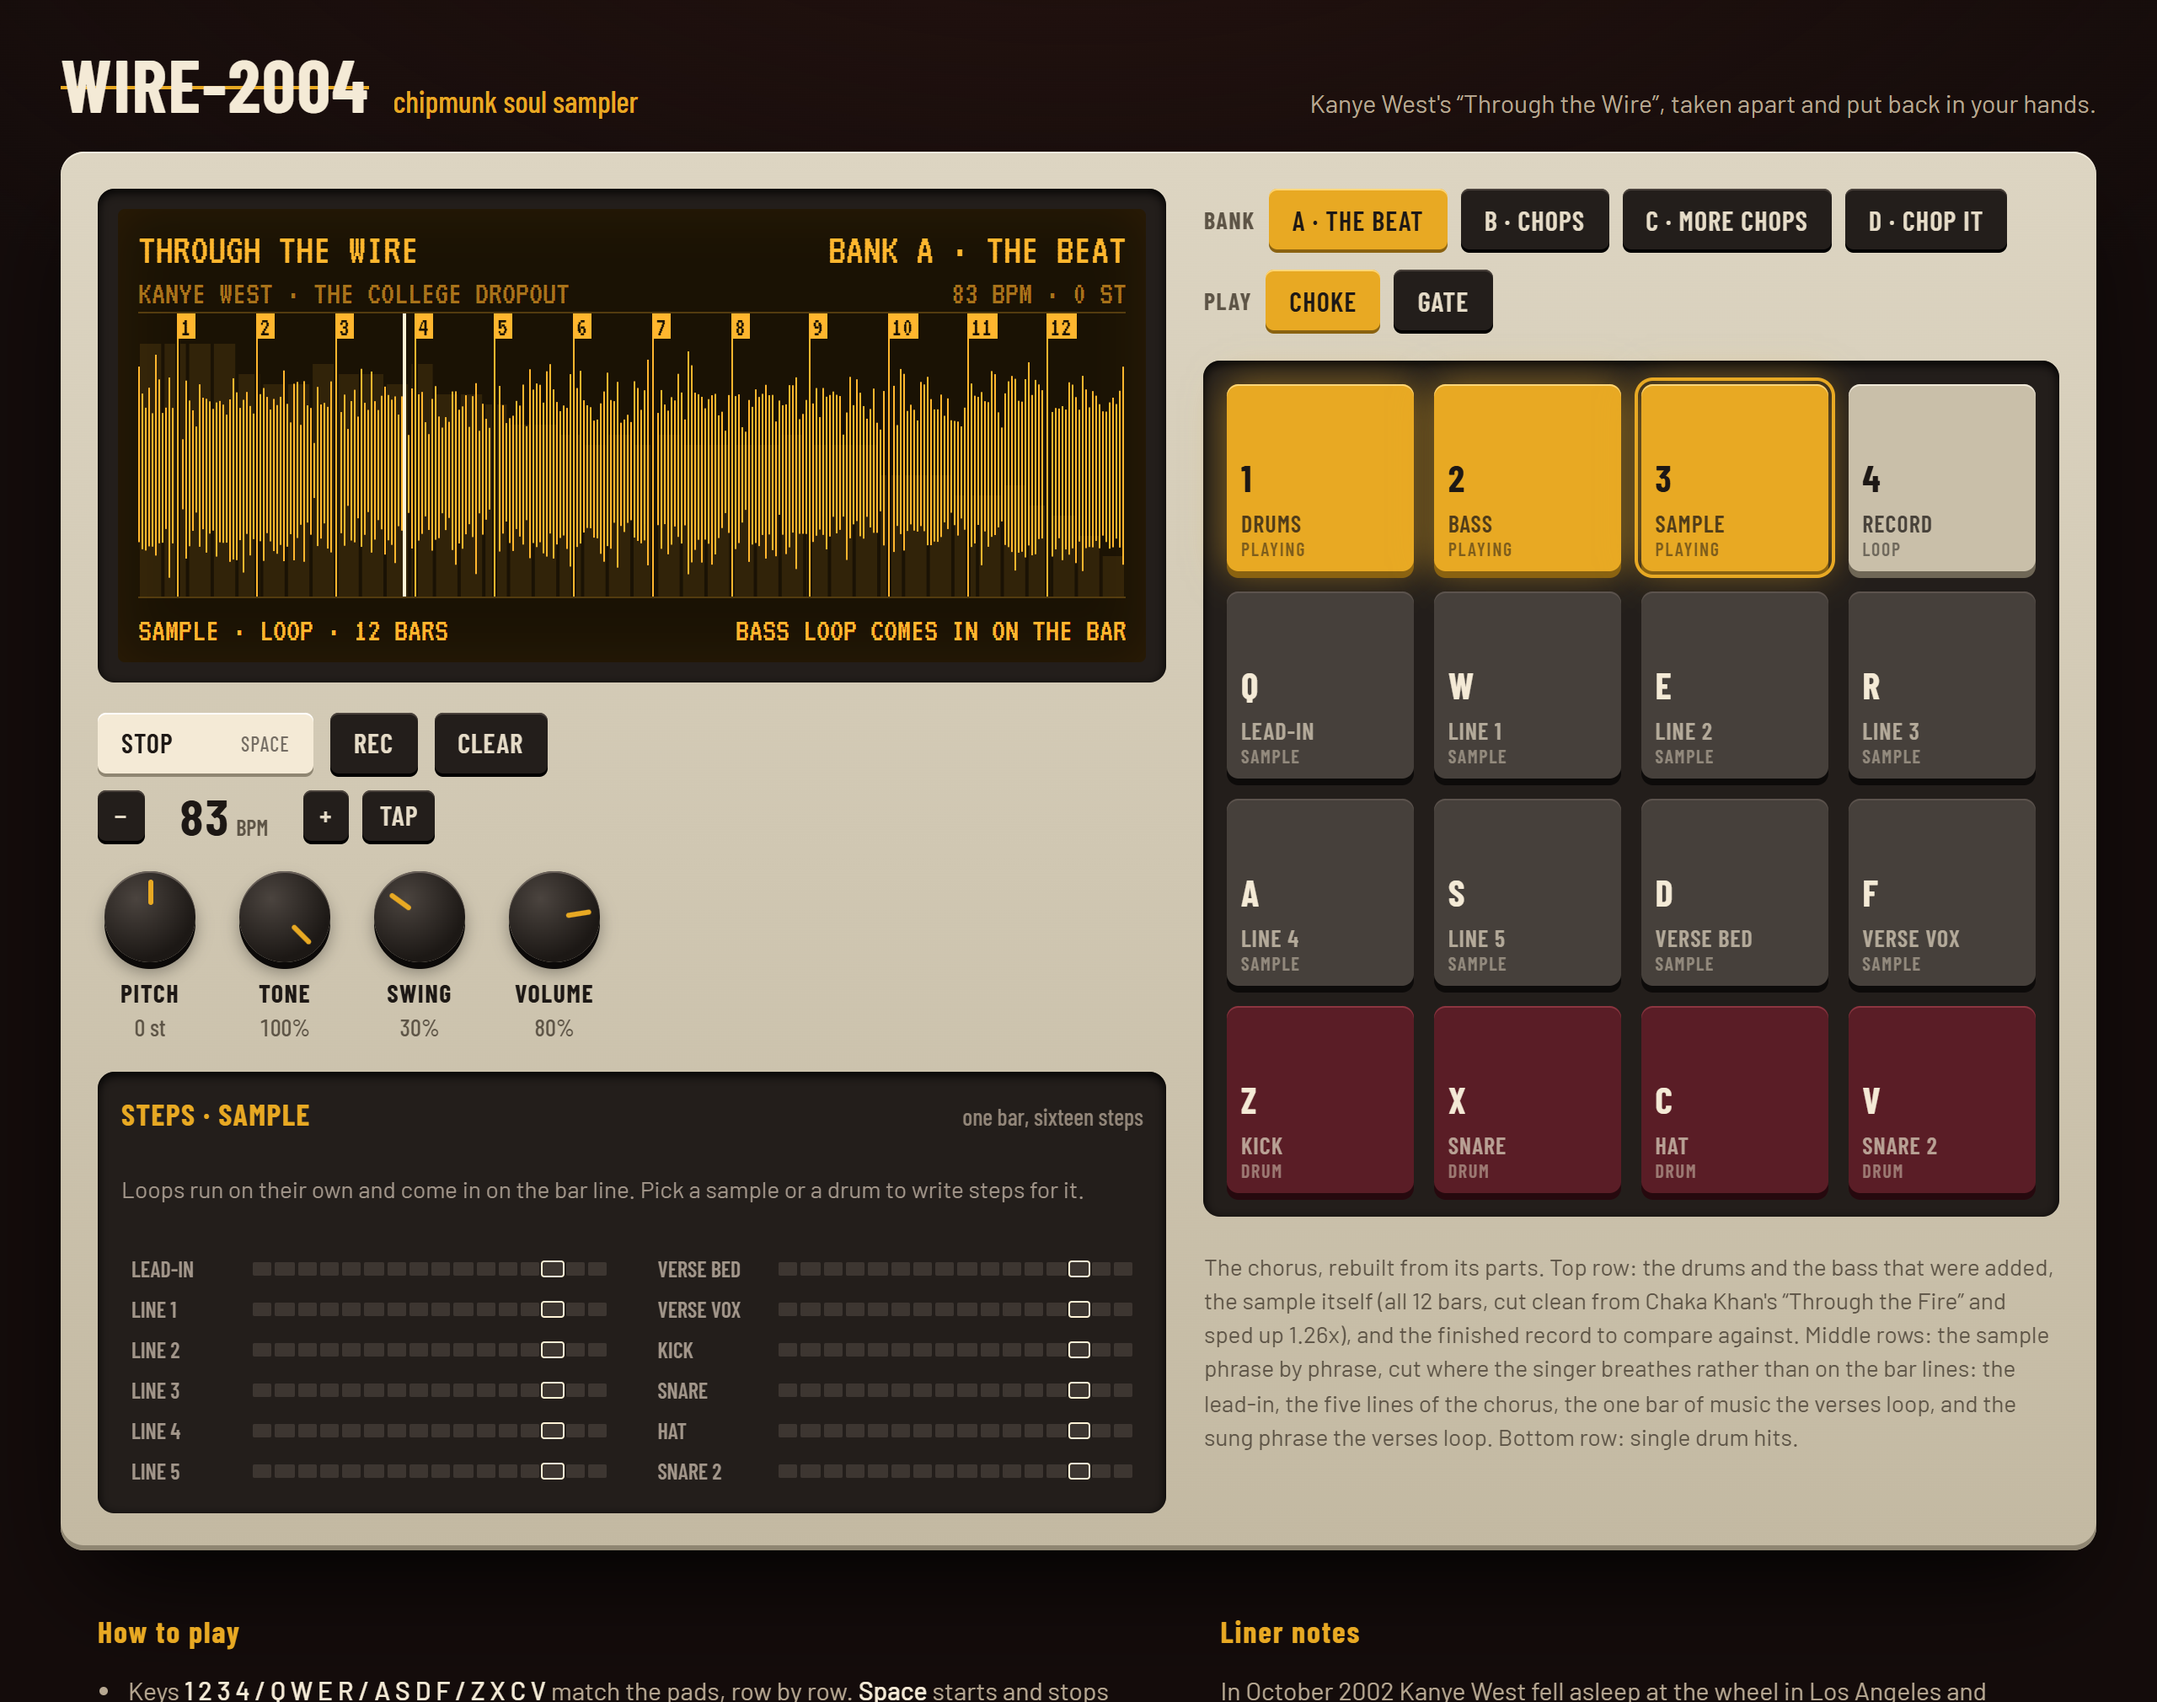
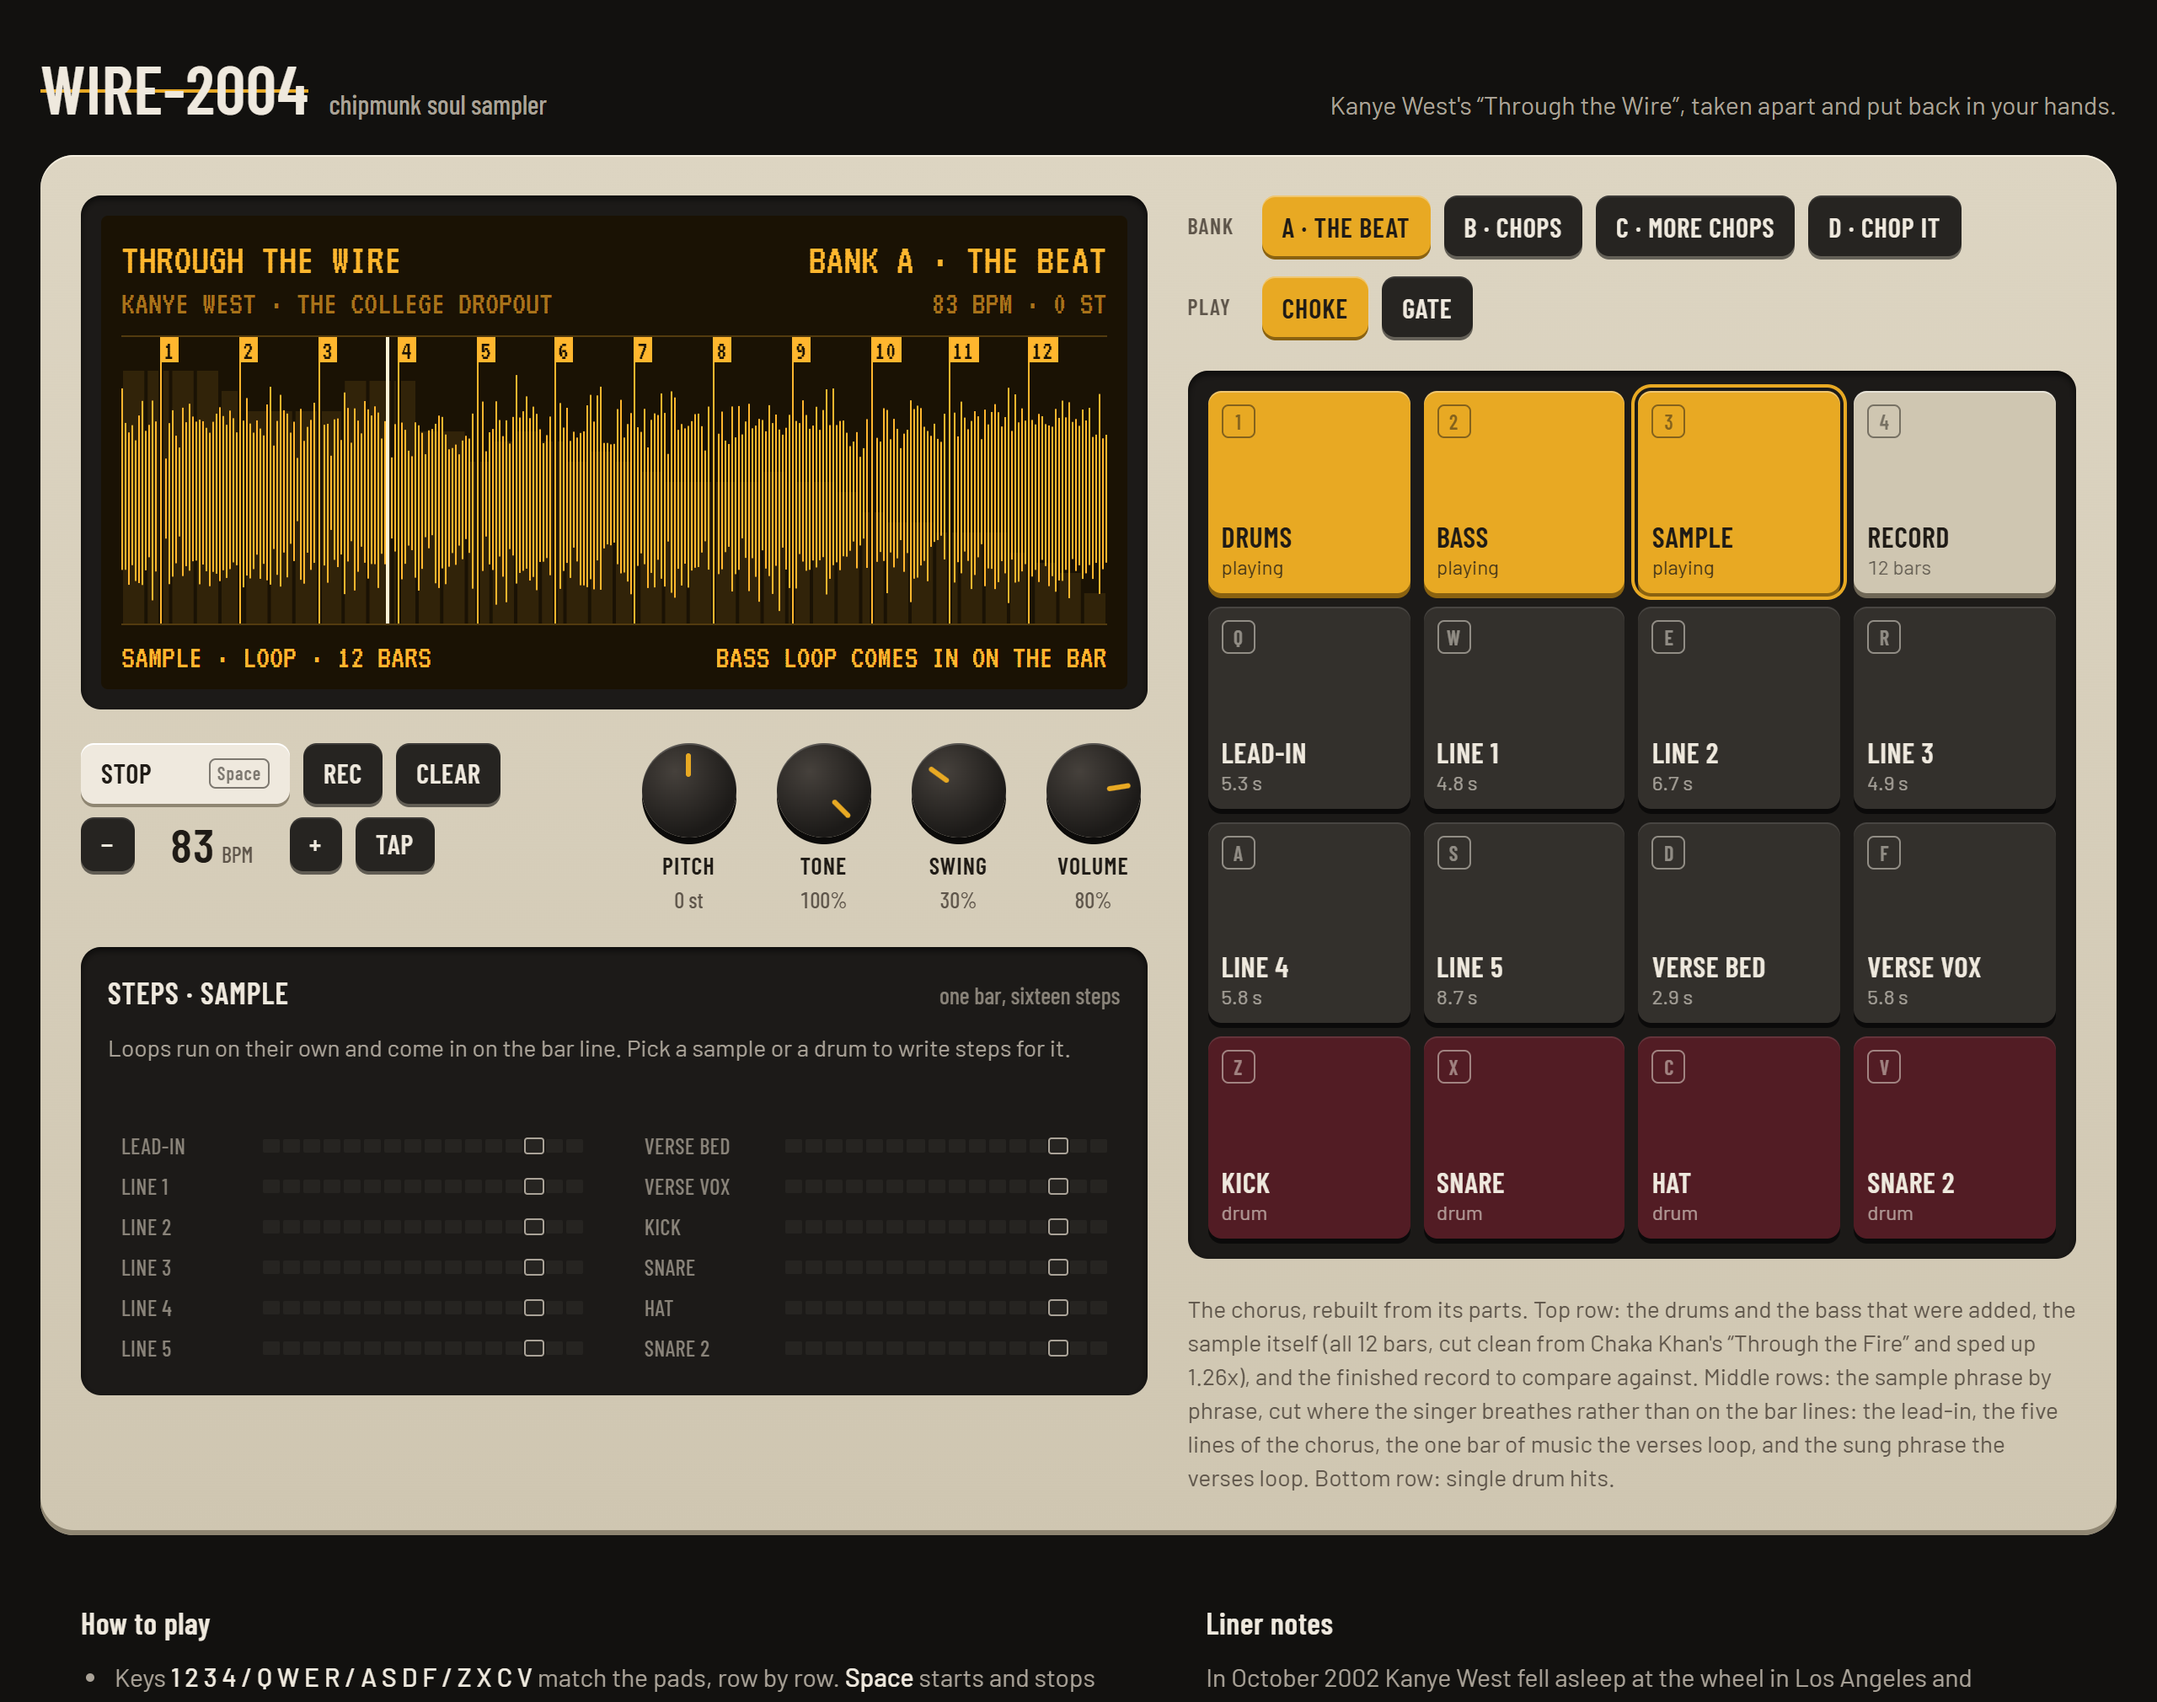
Refresh the screenshot and document the new keys

Changed region(s): [[0.0, 0.0312, 1.0, 1.0]]

diff --git a/README.md b/README.md
@@ -65,6 +65,7 @@ The source was played by people and its tempo wanders. A straight copy would sli
 - **Sequencer**: sixteen steps and a pattern for every pad, live recording, swing, tap tempo.
 - **Choke and gate**: chops cut each other off, and can stop when you let go.
 - The screen shows the selected sound, its playhead, and for a chop, where in the source it comes from.
+- Every pad says what it will do: how long a phrase runs, where in the source a chop comes from, whether a loop is playing or waiting for the bar.
 
 ```
              Bank A                        Bank B              Bank C         Bank D
@@ -73,6 +74,8 @@ Q W E R      lead-in, lines 1-3            chops 4-7           chops 20-23    yo
 A S D F      lines 4-5, verse bed, vox     chops 8-11          chops 24-27    your chops 9-12
 Z X C V      kick, snare, hat, snare 2     chops 12-15         chops 28-31    kick, snare, hat, snare 2
 SPACE        play / stop
+ESC          silence everything
+← →          previous / next bank
 ```
 
 ## How it was worked out
